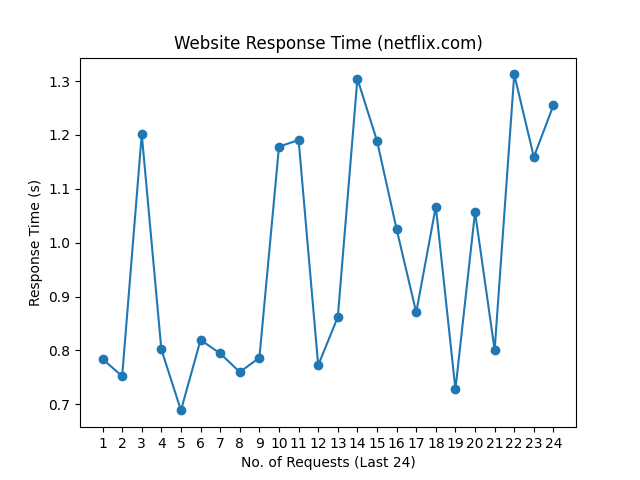
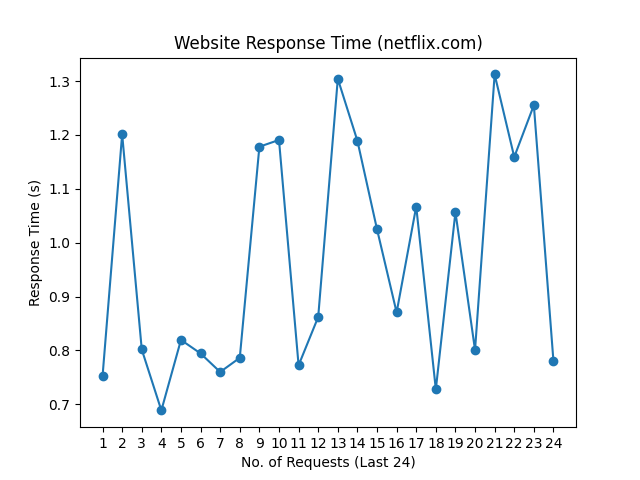
update README.md, history and graph

Changed region(s): [[0.1562, 0.125, 0.875, 0.875], [0.8438, 0.4062, 0.875, 0.7812]]

diff --git a/README.md b/README.md
@@ -1,10 +1,10 @@
 # Web Monitoring
 
-Last Checked: 21/10/2024 08:20
+Last Checked: 22/10/2024 08:20
 
 | Website | Response Time (s) | Status | Avg Uptime (%) |
 |---------|-------------------|--------|----------------|
 | www.thiswebsiteisdown.net | 0 <br> <img src="graph/thiswebsiteisdown.net.png" alt="Graph" width="200" height="200">  | ❌ Down | 0.00 |
-| www.netflix.com | 1.255149 <br> <img src="graph/netflix.com.png" alt="Graph" width="200" height="200">  | ✅ Up | 100.00 |
-| www.google.com | 0.073834 <br> <img src="graph/google.com.png" alt="Graph" width="200" height="200">  | ✅ Up | 100.00 |
-| www.facebook.com | 0.687843 <br> <img src="graph/facebook.com.png" alt="Graph" width="200" height="200">  | ✅ Up | 100.00 |
+| www.netflix.com | 0.779907 <br> <img src="graph/netflix.com.png" alt="Graph" width="200" height="200">  | ✅ Up | 100.00 |
+| www.google.com | 0.093234 <br> <img src="graph/google.com.png" alt="Graph" width="200" height="200">  | ✅ Up | 100.00 |
+| www.facebook.com | 0.764200 <br> <img src="graph/facebook.com.png" alt="Graph" width="200" height="200">  | ✅ Up | 100.00 |
